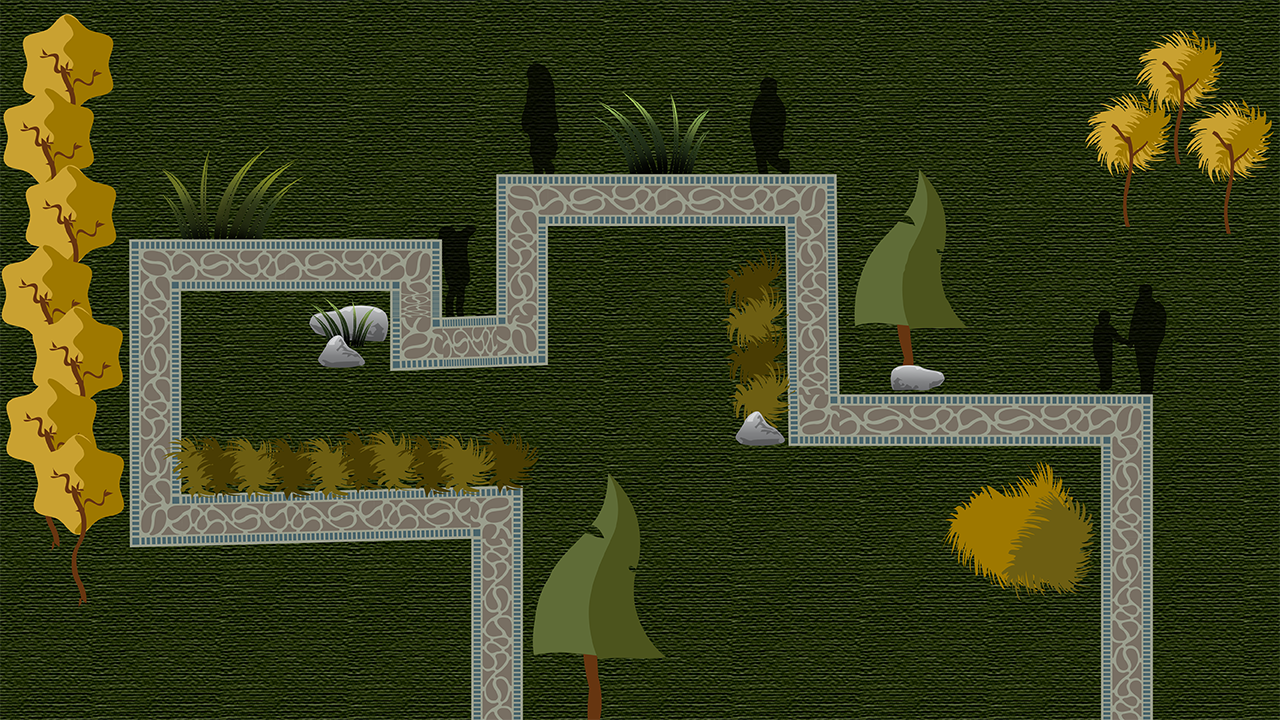
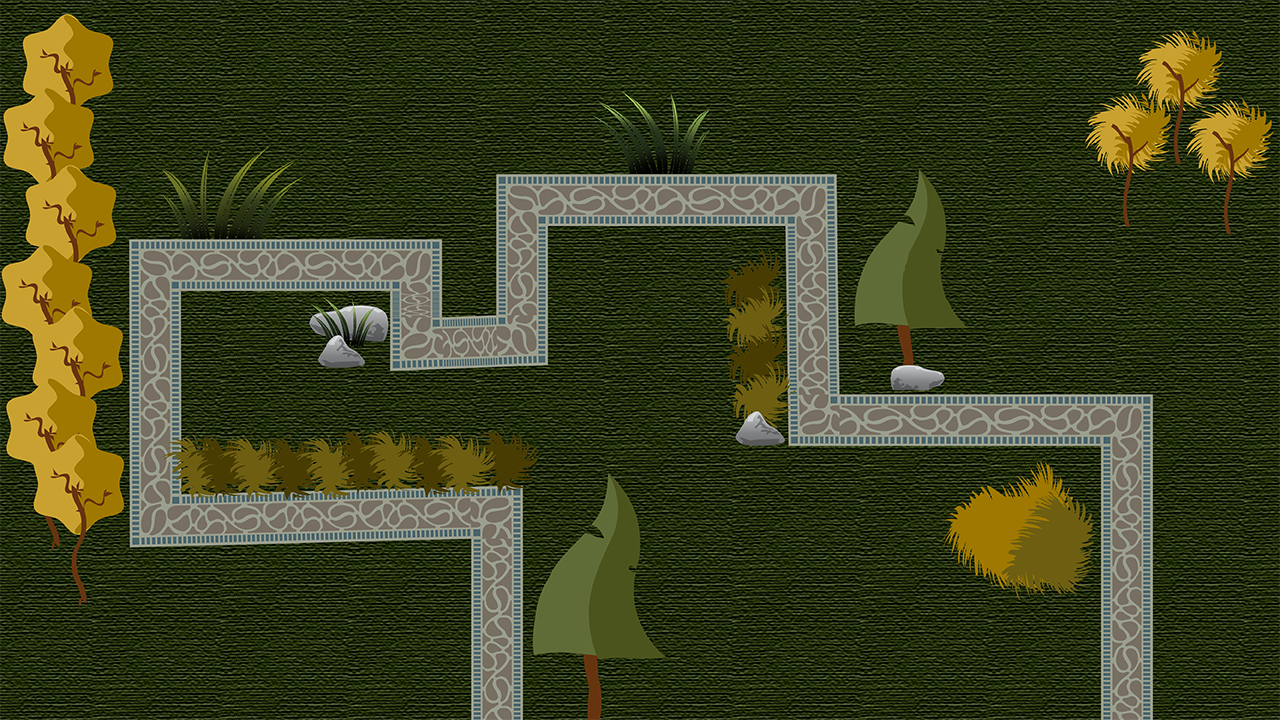
updated sketch.js and added assets

diff --git a/sketch.js b/sketch.js
@@ -182,16 +182,16 @@ function drawNarrativeText() {
   push();
   textSize(25);
   textFont(fontcurrentLevel);
-  fill("#000000");
+  fill("#694205");
   text(currentLevel, dialogueBoxX + 150, dialogueBoxY + 100);
   pop();
 
   // narrative instructions 
   push();
-  textSize(24);
+  textSize(23);
   textFont(fontNarrativeText);
-  fill("#000000");
-  text(currentNarrative, dialogueBoxX + 150, dialogueBoxY + 130);
+  fill("#FFFFFF");
+  text(currentNarrative, dialogueBoxX + 150, dialogueBoxY + 140);
   pop();
 }
 
@@ -400,7 +400,7 @@ class levelOneBasicNeedsRoom extends PNGRoom {
     if( playerSprite.overlap(this.foodSprite)) {
       // draw a PNG file here of the dialog box...
       narrativeVisible = true;
-      currentLevel = 'Level 1';
+      currentLevel = 'Level 1: Basic Needs';
       currentNarrative = 'Sweetfield City is in DANGER! Air is too toxic to breathe. First,\nfind some food to take with you, then get out of Sweetfield!';
     }
     else {
@@ -441,7 +441,7 @@ class levelTwoSafetyRoom extends PNGRoom {
     if( playerSprite.overlap(this.maskSprite)) {
       // draw a PNG file here of the dialog box...
       narrativeVisible = true;
-      currentLevel = 'Level 2';
+      currentLevel = 'Level 2: Safety';
       currentNarrative = 'The air is too toxic to breathe. Take this mask with you and follow\nthe path to continue your journey. By the way, where did everyone go?\nYou should try heading to Sweet Forest to find out.';
     }
     else {
@@ -461,6 +461,61 @@ class levelTwoSafetyRoom extends PNGRoom {
 }
 
 // Level Three A: Belongingness Room
+
+class LevelThreeABelongingnessRoom extends PNGRoom {
+  preload() {
+    this.npcGirlSprite = false;
+    this.npcGirlX = 770;
+    this.npcGirlY = 133;
+    this.npcGirlWidth = 200;
+    this.npcGirlHeight = 200;
+
+    this.npcMomAndChildSprite = false;
+    this.npcMomAndChildX = 1130;
+    this.npcMomAndChildY = 330;
+    this.npcMomAndChildWidth = 150;
+    this.npcMomAndChildHeight = 150;
+  }
+
+  load() {
+     super.load();
+     this.npcGirlSprite = createSprite(this.npcGirlX, this.npcGirlY, this.npcGirlWidth, this.npcGirlHeight);
+     this.npcGirlSprite.addAnimation('idle', loadAnimation('assets/avatars/npcGirl.png'));
+     this.npcMomAndChildSprite = createSprite(this.npcMomAndChildX, this.npcMomAndChildY, this.npcMomAndChildWidth, this.npcMomAndChildHeight);
+     this.npcMomAndChildSprite.addAnimation('idle', loadAnimation('assets/avatars/npcMomAndChild.png'));
+  }
+
+  draw() {
+    super.draw();
+    drawSprite(this.npcGirlSprite);
+    this.npcGirlSprite.setCollider('rectangle', 0, -20, 30, 30);
+    playerSprite.collide(this.npcGirlSprite);
+
+    drawSprite(this.npcMomAndChildSprite);
+
+    // draw our dialog box here...
+    if( playerSprite.overlap(this.npcGirlSprite)) {
+      // draw a PNG file here of the dialog box...
+      narrativeVisible = true;
+      currentLevel = 'Level 3: Belongingness';
+      currentNarrative = 'Hi Felicity! Thank you for rescuing us in the forest. We are very\nconfused as to what is happening in our town...I sure hope you can\nfind the others because many of us are lost.';
+    }
+    else {
+      narrativeVisible = false;
+      currentLevel = '';
+      currentNarrative = '';
+    }
+  }
+  unload() {
+      super.unload();
+
+      // you would unload it here
+      this.npcGirlSprite = false;
+      this.MomAndChildSprite = false;
+      narrativeVisible = false;
+  }
+}
+
 // Level Three B: Belongingness Room
 // Level Four A: Esteem Room
 
@@ -490,7 +545,7 @@ class LevelFourBEsteemRoom extends PNGRoom {
     if( playerSprite.overlap(this.davidHumbleSprite)) {
       // draw a PNG file here of the dialog box...
       narrativeVisible = true;
-      currentLevel = 'Level 4';
+      currentLevel = 'Level 4: Esteem';
       currentNarrative = 'Sir David Humble: Hi! Welcome to my city. I see that you are\nlooking for something to tell you about our famous crops. You are\nwelcome to use our research library if you like? [press E to enter]';
     }
     else {
@@ -548,7 +603,7 @@ class narrativeEndingRoom extends PNGRoom {
     this.textBoxHeight = (height/6)*4;
     this.textBoxX = 200;
     this.textBoxY = 215;
-    this.instructionsText = "Sustainable microfarms help bring people closer to the food they eat, creating transparency in the food chain and the opportunity to combat environmental injustices such as 'food deserts' and shortages. Visit www.thrivesantaana.org to learn how cities like Santa Ana does it.\n\n\n[press SPACE]";
+    this.instructionsText = "Sustainable microfarms help bring people closer to the food they eat, creating transparency in the food chain and the opportunity to combat environmental injustices such as 'food deserts' and shortages. Visit www.thrivesantaana.org to learn how cities like Santa Ana does it.\n\n\n[SPACE]";
   }
 
   draw() {
